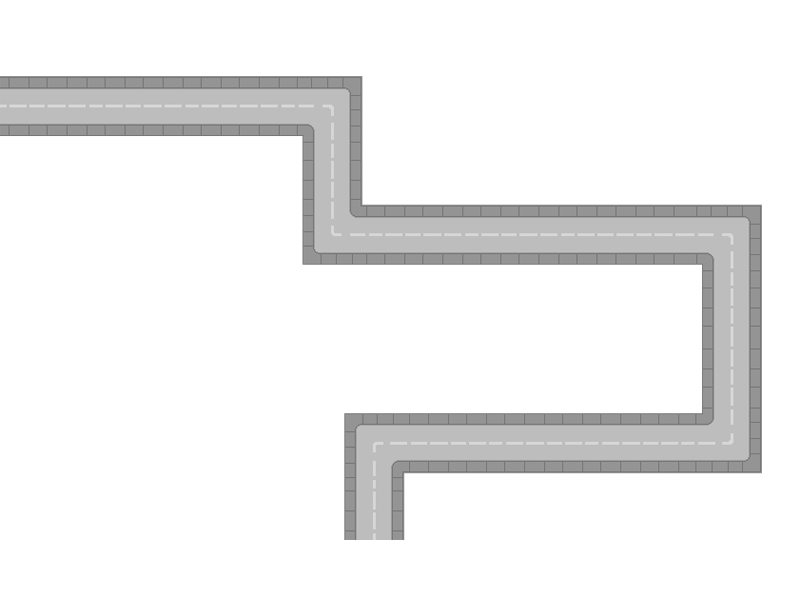
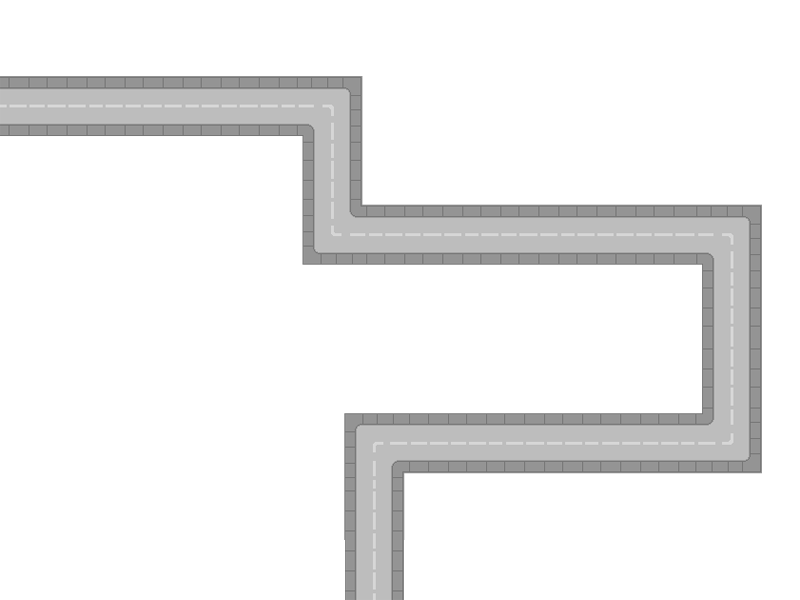
asd

Changed region(s): [[0.4062, 0.9, 0.5312, 1.0]]

diff --git a/js/script.js b/js/script.js
@@ -1131,9 +1131,9 @@ class GameManager extends EntityManager
 
 let paths =
 [
-    new Path(sprites.paths[0], new KillableEntity(5000, trans(vec(375, 535))), vec(0, 105), vec(332, 105), vec(332, 235), vec(730, 235), vec(730, 445), vec(375, 445)),
+    new Path(sprites.paths[0], new KillableEntity(5000, trans(vec(375, 580))), vec(0, 105), vec(332, 105), vec(332, 235), vec(730, 235), vec(730, 445), vec(375, 445)),
     new Path(sprites.paths[1], new KillableEntity(5000, trans(vec(625, 540))), vec(0, 100), vec(650, 100), vec(650, 290), vec(155, 290), vec(155, 450), vec(625, 450)),
-    new Path(sprites.paths[2], new KillableEntity(5000, trans(vec(580, 542))), vec(0, 65), vec(240, 65), vec(240, 175), vec(435, 175), vec(435, 65), vec(725, 65), vec(725, 328), vec(295, 328), vec(295, 478), vec(580, 478)),
+    new Path(sprites.paths[2], new KillableEntity(5000, trans(vec(580, 588))), vec(0, 65), vec(240, 65), vec(240, 175), vec(435, 175), vec(435, 65), vec(725, 65), vec(725, 328), vec(295, 328), vec(295, 478), vec(580, 478)),
 ];
 
 let waves =
